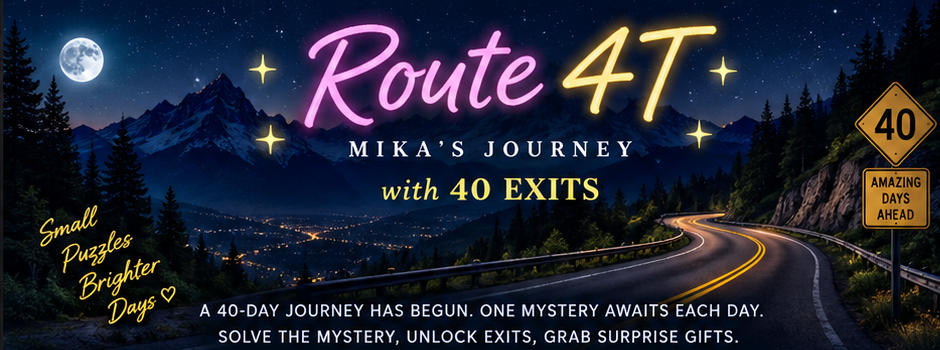
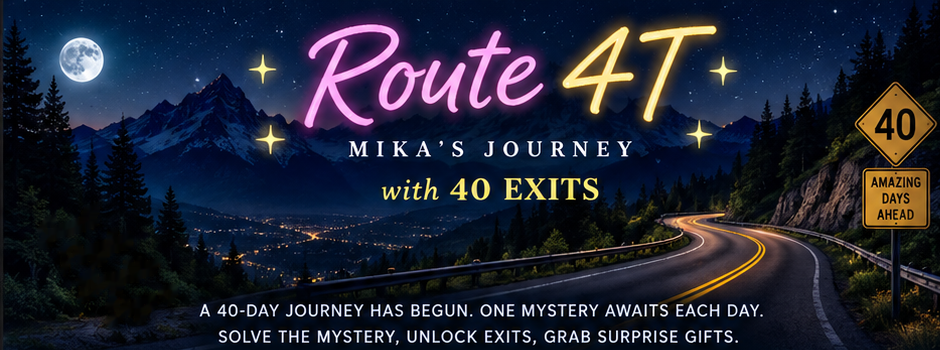
Add files via upload

Changed region(s): [[0.0309, 0.5714, 0.1851, 0.9143]]

diff --git a/app.js b/app.js
@@ -655,15 +655,15 @@ const DAYS = [
 
 const WRONG_MESSAGES=[
  "Not quite, birthday girl 😏",
- "Hmm… that didn’t unlock it.",
- "Nice try, Mika. Mystery survives.",
- "Nope — try that 39-year-old brain again 😄",
- "Almost… maybe 😂",
+ "Still locked. Try again.",
+ "Nice try, Mika 😄",
+ "Nope — give it another go.",
+ "Almost! Try once more 😂",
  "The vault stays locked."
 ];
 
 let currentDay=DAYS[0], attemptsUsed=0, unusedMessages=[];
-let wrongPopupAwaitingAck=false, wrongPopupSuppressClickUntil=0;
+let wrongPopupAwaitingAck=false, wrongPopupSuppressClickUntil=0, wrongPopupReadyAt=0;
 
 const $=id=>document.getElementById(id);
 
@@ -699,10 +699,16 @@ function positionKeyboardUI(){
    requestAnimationFrame(()=>{
      const viewportTop=vv?vv.offsetTop:0;
      const viewportHeight=vv?vv.height:window.innerHeight;
-     const h=p.offsetHeight;
-     const top=Math.max(viewportTop+8, viewportTop+viewportHeight-h-10);
-     p.style.top=top+"px";
+     const safeGap=10;
+     const maxH=Math.max(104,viewportHeight-(safeGap*2));
+     p.style.maxHeight=maxH+"px";
      p.style.bottom="auto";
+     p.style.top=(viewportTop+safeGap)+"px";
+     requestAnimationFrame(()=>{
+       const h=Math.min(p.offsetHeight,maxH);
+       const top=Math.max(viewportTop+safeGap,viewportTop+viewportHeight-h-safeGap);
+       p.style.top=top+"px";
+     });
    });
  }
 }
@@ -726,28 +732,43 @@ function refocusAnswer(adjust=true){
 function acknowledgeWrongPopup(p){
  if(!p || !p.classList.contains("show")) return;
  wrongPopupAwaitingAck=false;
+ const backdrop=$("wrongAnswerBackdrop");
  if(p.dataset.mode==="surrender"){
    p.classList.remove("show");
+   if(backdrop) backdrop.remove();
    show("confirmGiveUp");
    return;
  }
  const showSurrender=p.dataset.after==="surrender";
  p.classList.remove("show");
  p.setAttribute("aria-hidden","true");
+ if(backdrop) backdrop.remove();
  if(showSurrender){
    requestAnimationFrame(()=>requestAnimationFrame(showSurrenderPopup));
  }
 }
 function buildWrongPopup(){
- // v2.6 reliability rule: every failed attempt gets a brand-new dialog node.
- // This avoids stale display/classes/event state from a previous attempt.
- const old=$("wrongAnswerPopover");
- if(old) old.remove();
+ // v2.7: fresh modal + backdrop for every failed attempt. The backdrop blocks
+ // ghost taps from landing on HOME or puzzle controls while the keyboard resizes.
+ const old=$("wrongAnswerPopover"); if(old) old.remove();
+ const oldBackdrop=$("wrongAnswerBackdrop"); if(oldBackdrop) oldBackdrop.remove();
+
+ const backdrop=document.createElement("div");
+ backdrop.id="wrongAnswerBackdrop";
+ backdrop.className="wrong-answer-backdrop";
+ backdrop.setAttribute("aria-hidden","true");
+
  const p=document.createElement("div");
  p.id="wrongAnswerPopover"; p.className="wrong-answer-popover";
  p.setAttribute("role","dialog"); p.setAttribute("aria-live","assertive"); p.setAttribute("aria-hidden","true");
  p.innerHTML='<div class="wap-message"></div><div class="wap-remaining"></div><button class="wap-ok" type="button">OK</button>';
- document.body.appendChild(p);
+
+ backdrop.appendChild(p);
+ document.body.appendChild(backdrop);
+
+ backdrop.addEventListener("pointerdown",e=>{ if(e.target===backdrop) e.preventDefault(); });
+ backdrop.addEventListener("click",e=>{ if(e.target===backdrop){e.preventDefault();e.stopPropagation();} });
+
  const ok=p.querySelector(".wap-ok");
  ok.addEventListener("pointerdown",e=>{
    if(isLikelyPhone() && p.dataset.mode!=="surrender") e.preventDefault();
@@ -755,11 +776,12 @@ function buildWrongPopup(){
  ok.addEventListener("pointerup",e=>{
    if(!isLikelyPhone()) return;
    e.preventDefault(); e.stopPropagation();
-   wrongPopupSuppressClickUntil=Date.now()+250;
+   if(Date.now()<wrongPopupReadyAt) return;
+   wrongPopupSuppressClickUntil=Date.now()+350;
    acknowledgeWrongPopup(p);
  });
  ok.addEventListener("click",e=>{
-   if(Date.now()<wrongPopupSuppressClickUntil){e.preventDefault();return;}
+   if(Date.now()<wrongPopupReadyAt || Date.now()<wrongPopupSuppressClickUntil){e.preventDefault();return;}
    acknowledgeWrongPopup(p);
  });
  return p;
@@ -779,10 +801,15 @@ function showWrongPopup(message,remaining){
  p.querySelector(".wap-message").textContent=message;
  p.querySelector(".wap-remaining").textContent=remaining===0?"Three attempts used.":(remaining===1?"1 attempt remaining":`${remaining} attempts remaining`);
  p.querySelector(".wap-ok").textContent="OK";
+ wrongPopupReadyAt=Date.now()+400;
+ const backdrop=$("wrongAnswerBackdrop");
+ if(backdrop){backdrop.classList.add("show");backdrop.setAttribute("aria-hidden","false");}
  p.classList.add("show");
  p.setAttribute("aria-hidden","false");
  positionKeyboardUI();
  requestAnimationFrame(()=>{positionKeyboardUI(); requestAnimationFrame(positionKeyboardUI);});
+ setTimeout(positionKeyboardUI,80);
+ setTimeout(positionKeyboardUI,220);
  return true;
 }
 function showSurrenderPopup(){
@@ -795,10 +822,15 @@ function showSurrenderPopup(){
  p.querySelector(".wap-message").textContent="I GIVE UP — I'M SO OLD… I'M ABOUT TO TURN 40! 😂";
  p.querySelector(".wap-remaining").textContent="The mystery wins this round.";
  p.querySelector(".wap-ok").textContent="I GIVE UP 😂";
+ wrongPopupReadyAt=Date.now()+400;
+ const backdrop=$("wrongAnswerBackdrop");
+ if(backdrop){backdrop.classList.add("show");backdrop.setAttribute("aria-hidden","false");}
  p.classList.add("show");
  p.setAttribute("aria-hidden","false");
  positionKeyboardUI();
  requestAnimationFrame(()=>{positionKeyboardUI(); requestAnimationFrame(positionKeyboardUI);});
+ setTimeout(positionKeyboardUI,80);
+ setTimeout(positionKeyboardUI,220);
  return true;
 }
 
@@ -1008,7 +1040,7 @@ function resetPuzzle(){
  $("answerInput").value="";$("answerInput").disabled=false;
  $("feedback").textContent="";$("attempts").textContent="";
  $("giveUpBtn").classList.add("hidden");$("submitBtn").disabled=false;
- const popup=$("wrongAnswerPopover"); if(popup){popup.classList.remove("show");popup.setAttribute("aria-hidden","true");}
+ const popup=$("wrongAnswerPopover"); if(popup) popup.remove(); const backdrop=$("wrongAnswerBackdrop"); if(backdrop) backdrop.remove();
 }
 function openDay(n){
  currentDay=DAYS.find(d=>d.day===n);
@@ -1196,7 +1228,10 @@ function openBirthdayFinale(){
 $("surrenderSurpriseBtn").onclick=()=>currentDay.day===0?openBirthdayFinale():openSurprise(false);
 $("watchBtn").onclick=()=>window.open(currentDay.video,"_blank","noopener,noreferrer");
 $("birthdaySurpriseBtn").onclick=()=>window.open(currentDay.video,"_blank","noopener,noreferrer");
-document.querySelectorAll("[data-home]").forEach(b=>b.onclick=()=>{renderGrid();show("home")});
+document.querySelectorAll("[data-home]").forEach(b=>b.onclick=e=>{
+ if(wrongPopupAwaitingAck){e.preventDefault();e.stopPropagation();return;}
+ renderGrid();show("home");
+});
 document.body.classList.add("home-active");
 renderGrid();
 
@@ -1213,7 +1248,7 @@ const resetBtn=$("resetTestBtn");
 if(resetBtn) resetBtn.onclick=resetTestProgress;
 
 if("serviceWorker" in navigator){
- window.addEventListener("load",()=>navigator.serviceWorker.register("./sw.js?v=24").catch(()=>{}));
+ window.addEventListener("load",()=>navigator.serviceWorker.register("./sw.js?v=27").catch(()=>{}));
 }
 
 function syncDesktopFrame(){

diff --git a/styles.css b/styles.css
@@ -1379,3 +1379,48 @@ button.primary,button.secondary,button.giveup,.home-button{width:100%;padding:15
 
 /* v2.6 popup instance is freshly created for every failed attempt. */
 .wrong-answer-popover{z-index:10000!important}
+
+
+/* =========================================================
+   ROUTE 4T v2.7 — FINAL QA hardening
+   ========================================================= */
+
+/* The banner asset itself is now clean (moon restored; four-word phrase removed).
+   Remove the v2.6 masking overlay entirely so it cannot cover the moon. */
+.project40-header::after{display:none!important}
+
+/* Modal shield blocks ghost taps from reaching HOME / puzzle controls while
+   the soft keyboard changes the visual viewport. */
+.wrong-answer-backdrop{
+  position:fixed!important;
+  inset:0!important;
+  z-index:9999!important;
+  display:none;
+  background:transparent!important;
+  pointer-events:auto!important;
+  touch-action:none!important;
+}
+.wrong-answer-backdrop.show{display:block!important}
+.wrong-answer-backdrop .wrong-answer-popover{z-index:10000!important}
+
+/* Message content may compress/scroll, but OK stays inside the visible viewport. */
+@media(max-width:920px){
+  .wrong-answer-popover{
+    display:none;
+    flex-direction:column!important;
+    overflow:hidden!important;
+    width:min(92vw,390px)!important;
+  }
+  .wrong-answer-popover.show{display:flex!important}
+  .wap-message{
+    flex:0 1 auto!important;
+    overflow:auto!important;
+    max-height:3.1em!important;
+  }
+  .wap-remaining{flex:0 0 auto!important}
+  .wap-ok{
+    flex:0 0 auto!important;
+    position:relative!important;
+    bottom:auto!important;
+  }
+}

diff --git a/index.html b/index.html
@@ -6,7 +6,7 @@
 <meta name="theme-color" content="#0d1422">
 <title>ROUTE 4T · MIKA'S JOURNEY</title>
 <link rel="manifest" href="manifest.webmanifest">
-<link rel="stylesheet" href="styles.css?v=26">
+<link rel="stylesheet" href="styles.css?v=27">
 </head>
 <body>
 <div class="stars" aria-hidden="true"></div>
@@ -56,7 +56,7 @@
   <p id="emptyState" class="empty-state hidden">Your first mystery has not been revealed yet.</p>
 
   <div class="test-tools">
-    <div>v2.6 TEST MODE</div>
+    <div>v2.7 TEST MODE</div>
     <div>Simulated date: <b id="simDateText"></b></div>
     <div class="test-hint">Try <code>?testDate=0930</code>, <code>?testDate=1012</code>, or <code>?testDate=1106</code></div>
     <button id="resetTestBtn" class="reset-test" type="button">RESET TEST PROGRESS</button>
@@ -152,6 +152,6 @@
 </section>
 
 </main>
-<script src="app.js?v=26"></script>
+<script src="app.js?v=27"></script>
 </body>
 </html>

diff --git a/sw.js b/sw.js
@@ -1,5 +1,5 @@
-const CACHE='mikas-40-exits-v26';
-const ASSETS=['./','./index.html','./styles.css?v=26','./app.js?v=26','./manifest.webmanifest','./icon-192.png','./icon-512.png','./route4t-header.png'];
+const CACHE='mikas-40-exits-v27';
+const ASSETS=['./','./index.html','./styles.css?v=27','./app.js?v=27','./manifest.webmanifest','./icon-192.png','./icon-512.png','./route4t-header.png'];
 
 self.addEventListener('install',event=>{
   self.skipWaiting();
